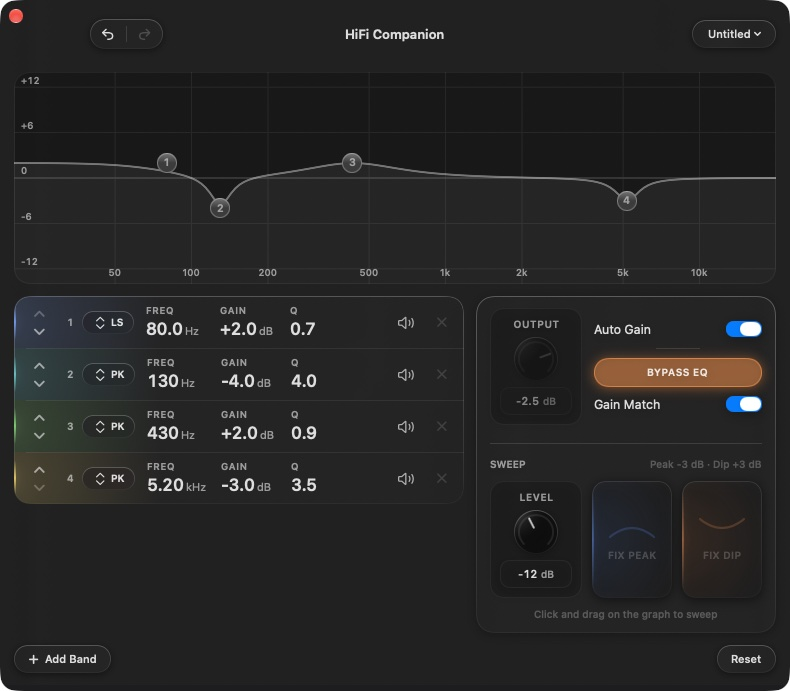
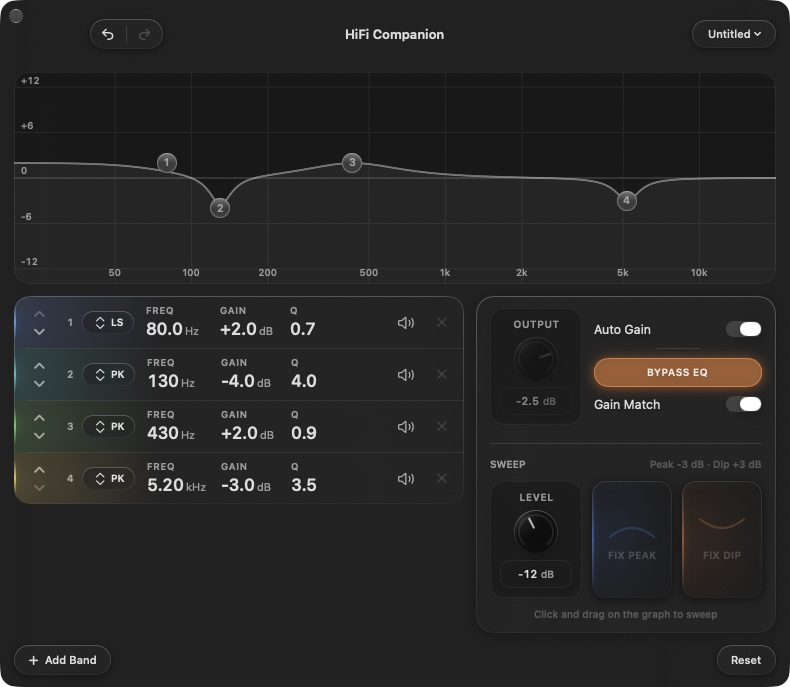
EQ: clipping pill with Fix, needle label gap, no strip under footer chips (build 28)

diff --git a/HiFiCompanion/PEQView.swift b/HiFiCompanion/PEQView.swift
@@ -61,16 +61,13 @@ struct PEQView: View {
                 .layoutPriority(0)
                 // Bypass A/B must not animate Canvas / materials (jank + WindowServer load).
                 .transaction { $0.animation = nil }
-                .overlay(alignment: .topLeading) {
+                // Bottom-trailing, just above the Hz labels: the sweep needle label lives along
+                // the top edge, so the two never overlap.
+                .overlay(alignment: .bottomTrailing) {
                     if model.peq.clippingWarning {
-                        Text("Output + peak boost exceeds 0 dB (clipping risk).")
-                            .foregroundStyle(.red)
-                            .font(.system(.caption))
-                            .padding(.horizontal, 8)
-                            .padding(.vertical, 4)
-                            .background(.ultraThinMaterial, in: RoundedRectangle(cornerRadius: 8, style: .continuous))
-                            .padding(8)
-                            .allowsHitTesting(false)
+                        clippingWarningPill
+                            .padding(.trailing, 8)
+                            .padding(.bottom, 22)
                     }
                 }
 
@@ -197,6 +194,51 @@ struct PEQView: View {
         }
         .onDisappear {
             model.mutePEQSweep()
+        }
+    }
+
+    /// Graph overlay (never an in-flow banner): how far output + peak boost goes over 0 dB,
+    /// with a one-click fix that lowers Output to the safe ceiling (Auto Gain stays as it is).
+    private var clippingWarningPill: some View {
+        let over = model.peq.outputGainDB + max(0, model.peq.peakBoostDB)
+        return HStack(spacing: 8) {
+            Image(systemName: "exclamationmark.triangle.fill")
+                .font(.system(size: 11, weight: .semibold))
+                .foregroundStyle(EQChrome.clipTint)
+            Text("Clipping risk")
+                .font(.system(.caption, weight: .semibold))
+            Text("\(EQFormat.gainDB(over, fractionDigits: 1)) over 0 dB")
+                .font(.system(.caption).monospacedDigit())
+                .foregroundStyle(.secondary)
+            Button("Fix") {
+                model.peq.setOutputGainToSafe()
+            }
+            .font(.system(.caption, weight: .semibold))
+            .buttonStyle(.plain)
+            .padding(.horizontal, 9)
+            .padding(.vertical, 3)
+            .background {
+                Capsule(style: .continuous)
+                    .fill(EQChrome.clipTint.opacity(0.28))
+                    .overlay {
+                        Capsule(style: .continuous)
+                            .strokeBorder(EQChrome.clipTint.opacity(0.6), lineWidth: 0.8)
+                    }
+            }
+            .disabled(!controlsEnabled)
+            .help("Lower Output so the boosted bands stay below 0 dB")
+        }
+        .padding(.leading, 10)
+        .padding(.trailing, 4)
+        .padding(.vertical, 4)
+        .background {
+            Capsule(style: .continuous)
+                .fill(.regularMaterial)
+                .overlay {
+                    Capsule(style: .continuous)
+                        .strokeBorder(EQChrome.clipTint.opacity(0.55), lineWidth: 0.8)
+                }
+                .shadow(color: EQChrome.shadowColor(for: colorScheme), radius: 4, y: 1.5)
         }
     }
 
@@ -729,7 +771,9 @@ struct PEQView: View {
                 }
                 .font(.system(.subheadline, weight: .medium))
                 .padding(.horizontal, 14)
-                .padding(.vertical, 7)
+                // Exact chip height = `footerHeight`: an intrinsic chip (~28) left H(N) 6 pt
+                // taller than the content, showing a dark strip under the chips.
+                .frame(height: PEQPanelMetrics.footerHeight)
                 .contentShape(Capsule())
             }
             .buttonStyle(.plain)
@@ -745,7 +789,7 @@ struct PEQView: View {
                 Text("Reset")
                     .font(.system(.subheadline, weight: .medium))
                     .padding(.horizontal, 14)
-                    .padding(.vertical, 7)
+                    .frame(height: PEQPanelMetrics.footerHeight)
                     .contentShape(Capsule())
             }
             .buttonStyle(.plain)
@@ -1256,6 +1300,7 @@ private enum EQChrome {
     static let bypassTint = Color(red: 0.98, green: 0.58, blue: 0.30)
     static let peakTint = Color(red: 0.35, green: 0.55, blue: 0.95)
     static let dipTint = Color(red: 0.95, green: 0.55, blue: 0.32)
+    static let clipTint = Color(red: 1.0, green: 0.36, blue: 0.32)
 
     static func shadowColor(for scheme: ColorScheme) -> Color {
         scheme == .dark ? Color.black.opacity(0.45) : Color.black.opacity(0.12)
@@ -1792,23 +1837,31 @@ private struct EQResponseGraph: View {
 
     private func drawNeedle(context: GraphicsContext, size: CGSize, hz: Double, active: Bool) {
         let x = xPosition(for: hz, width: size.width)
+        let text = Text(EQFormat.frequency(hz))
+            .font(.system(size: 11.5, weight: .semibold).monospacedDigit())
+            .foregroundStyle(active ? Color.orange : Color.primary.opacity(0.7))
+        let resolved = context.resolve(text)
+        let labelSize = resolved.measure(in: CGSize(width: 200, height: 40))
+        let labelCenter = CGPoint(x: min(max(x, labelSize.width / 2 + 6), size.width - labelSize.width / 2 - 6), y: 14)
+
+        // The line breaks around the label (it no longer runs through the text) and
+        // continues above it. Parked: thin dashed; while held: solid and slightly heavier.
         var line = Path()
-        line.move(to: CGPoint(x: x, y: 0))
+        let gap = labelSize.height / 2 + 3
+        if abs(labelCenter.x - x) < labelSize.width / 2 + 2 {
+            line.move(to: CGPoint(x: x, y: 0))
+            line.addLine(to: CGPoint(x: x, y: max(0, labelCenter.y - gap)))
+            line.move(to: CGPoint(x: x, y: labelCenter.y + gap))
+        } else {
+            line.move(to: CGPoint(x: x, y: 0))
+        }
         line.addLine(to: CGPoint(x: x, y: size.height))
         context.stroke(
             line,
             with: .color(active ? Color.orange : Color.primary.opacity(0.45)),
-            style: StrokeStyle(lineWidth: active ? 1.5 : 1, dash: active ? [] : [4, 3])
+            style: StrokeStyle(lineWidth: active ? 2 : 1, dash: active ? [] : [4, 3])
         )
-        let label = EQFormat.frequency(hz)
-        let text = Text(label)
-            .font(.system(size: 10, weight: .semibold))
-            .foregroundStyle(active ? Color.orange : Color.primary.opacity(0.7))
-        context.draw(
-            context.resolve(text),
-            at: CGPoint(x: min(max(x, 28), size.width - 28), y: 12),
-            anchor: .center
-        )
+        context.draw(resolved, at: labelCenter, anchor: .center)
     }
 
     private func xPosition(for hz: Double, width: CGFloat) -> CGFloat {

diff --git a/HiFiCompanionTests/PEQPanelMetricsTests.swift b/HiFiCompanionTests/PEQPanelMetricsTests.swift
@@ -115,7 +115,7 @@ final class PEQPanelMetricsTests: XCTestCase {
 
     func testChromeIsTight() {
         XCTAssertLessThan(PEQPanelMetrics.chromeHeight, 410)
-        XCTAssertEqual(PEQPanelMetrics.footerHeight, 34, accuracy: 0.1)
+        XCTAssertEqual(PEQPanelMetrics.footerHeight, 30, accuracy: 0.1)
         XCTAssertEqual(PEQPanelMetrics.footerClearance, 0, accuracy: 0.1)
         XCTAssertEqual(PEQPanelMetrics.footerChipInset, 12, accuracy: 0.1)
         XCTAssertEqual(PEQPanelMetrics.sideShadowBleed, 0, accuracy: 0.1)
@@ -123,7 +123,7 @@ final class PEQPanelMetricsTests: XCTestCase {
         let chipBlock = PEQPanelMetrics.footerChipInset
             + PEQPanelMetrics.footerHeight
             + PEQPanelMetrics.footerChipInset
-        XCTAssertEqual(chipBlock, 58, accuracy: 0.1)
+        XCTAssertEqual(chipBlock, 54, accuracy: 0.1)
     }
 
     /// Mert-approved compact footer (`eq-footer-compact-v4` / ver 19) — do not regress.

diff --git a/HiFiCompanion/PEQPanelController.swift b/HiFiCompanion/PEQPanelController.swift
@@ -51,9 +51,10 @@ enum PEQPanelMetrics {
     /// Equal air above and below Add Band / Reset (no separate footer bar).
     /// ≥ side shadow bloom (radius 10 + y 3) so the glass isn’t clipped.
     static let footerChipInset: CGFloat = 12
-    /// Chip ≈ label + vertical pad; pads live outside this value. Slightly
-    /// generous so ExactHeight never compresses the middle / glass.
-    static let footerHeight: CGFloat = 34
+    /// Exact Add Band / Reset chip height (`PEQView` frames the chips to it), the same as the
+    /// toolbar capsules. Pads live outside this value. Was a "generous" 34 for ~28 pt chips,
+    /// which left a 6 pt dark strip under the chips.
+    static let footerHeight: CGFloat = 30
     /// Shortest window matches the 4-band compact layout.
     static let minBandCountFloor = 4
 

diff --git a/HiFiCompanion/AuxWindows.swift b/HiFiCompanion/AuxWindows.swift
@@ -124,6 +124,13 @@ final class AuxWindows {
             try? await Task.sleep(nanoseconds: 400_000_000)
             results["eq-bypass"] = Self.capture(eq, to: "\(directory)/eq-bypass.png")
             model.peq.setBypass(wasBypassed)
+
+            // Clipping warning (Auto Gain off, Output pushed up) with a parked sweep needle.
+            model.peq.setAutoOutputGain(false)
+            model.peq.setOutputGainDB(1.5)
+            model.peq.setSweepNeedle(hz: 12_000)
+            try? await Task.sleep(nanoseconds: 400_000_000)
+            results["eq-clipping"] = Self.capture(eq, to: "\(directory)/eq-clipping.png")
         } else {
             results["eq"] = false
         }

diff --git a/docs/releases.md b/docs/releases.md
@@ -6,7 +6,7 @@ Version history, git tags, archived app builds, how to roll back, and how to bum
 
 | Release | Tag → commit | Launch stamp / build | Archived app | What it is |
 |---|---|---|---|---|
-| **0.3.1** (in development) | — | `eq-liquid-glass-v1` / 27 | — | EQ window in native Liquid Glass styling |
+| **0.3.1** (in development) | — | `eq-liquid-glass-v1` / 28 | — | EQ window in native Liquid Glass styling |
 | **0.3.0** (current release) | `v0.3.0` → `919e241` | `eq-footer-compact-v4` / 26 | `Archives/HiFiCompanion-0.3.0.app.zip` | Redesign R1–R5: follow macOS output, Parametric Equalizer switch, per-device curves, signal path, menu panel, Settings; code-review EQ fixes. Includes the never-tagged 0.2.1 work |
 | **0.2** | `v0.2` → `a49ad4b` | `eq-footer-compact-v4` / 19 | `Archives/HiFiCompanion-0.2.app.zip` | Approved EQ: compact footer, laptop fit, side-panel UX |
 | **0.1** | `v0.1` → `fd09485` | `window-chrome-v7` / 7 | `Archives/HiFiCompanion-0.1.app.zip` | Last working EQ **before** the side-panel UX redesign |
@@ -15,9 +15,9 @@ All tags are annotated and reachable from `main`. **Do not delete them** unless 
 
 Note: the tagged builds still report `CFBundleShortVersionString` **0.1.0**. The marketing version became `0.2.0` when versioning moved to `project.yml` (2026-10-28, after the tag); the build number (19) is unchanged.
 
-### 0.3.1 — in development (build 27)
+### 0.3.1 — in development (build 28)
 
-- **EQ window, native Liquid Glass** (agreed from concept mockups with Mert, 2026-10-31): 790 pt wide; Undo / Redo in one glass capsule; graph with dB / Hz axis labels and glass handles, all gray while Bypass EQ is on; bands in one grouped container, lit from the leading edge in the band color (stronger when selected), FREQ / GAIN / Q as large values under small caps labels, larger reorder / mute / remove controls; ↑ / ↓ reorder slides the rows; side glass: OUTPUT stack beside Auto Gain / Bypass EQ (orange when on) / Gain Match, SWEEP section with LEVEL and FIX PEAK / FIX DIP lit from the edge.
+- **EQ window, native Liquid Glass** (agreed from concept mockups with Mert, 2026-10-31): 790 pt wide; Undo / Redo in one glass capsule; graph with dB / Hz axis labels and glass handles, all gray while Bypass EQ is on; bands in one grouped container, lit from the leading edge in the band color (stronger when selected), FREQ / GAIN / Q as large values under small caps labels, larger reorder / mute / remove controls; ↑ / ↓ reorder slides the rows; side glass: OUTPUT stack beside Auto Gain / Bypass EQ (orange when on) / Gain Match, SWEEP section with LEVEL and FIX PEAK / FIX DIP lit from the edge; clipping warning as a glass pill with a Fix button; sweep needle line breaks around its (larger) label and is 2 pt while held; the dark strip under Add Band / Reset is gone (chips framed to the 30 pt the height math expects).
 
 ### 0.3.0 — 2026-10-31
 

diff --git a/docs/eq-window.md b/docs/eq-window.md
@@ -15,7 +15,7 @@ One window, **no tabs**. Top to bottom:
 3. **Middle** — band list on the left, **side glass** on the right (300 pt).
 4. **Footer chips** — **Add Band** (left, with a plus) and **Reset** (right) on the window background, the same glass capsule as the toolbar controls.
 
-The menu bar panel and Settings own the equalizer switch, output, Apple Music Mode and appearance. No status or helper lines in the EQ chrome (bit-perfect, peak boost, needle hints); the clipping warning is a **graph overlay**, never an in-flow banner (banners grew the height and pushed FIX PEAK / FIX DIP under the footer).
+The menu bar panel and Settings own the equalizer switch, output, Apple Music Mode and appearance. No status or helper lines in the EQ chrome (bit-perfect, peak boost, needle hints); the clipping warning is a **graph overlay**, never an in-flow banner (banners grew the height and pushed FIX PEAK / FIX DIP under the footer): a glass pill at the graph's bottom-trailing corner, just above the Hz labels (the needle label owns the top edge) — warning icon, "Clipping risk", how far output + peak boost goes over 0 dB, and a **Fix** button that lowers Output to the safe ceiling (`setOutputGainToSafe`; Auto Gain is left as it is).
 
 ## Bands
 
@@ -31,7 +31,7 @@ The menu bar panel and Settings own the equalizer switch, output, Apple Music Mo
 
 ## Sweep (always on the graph)
 
-- Press-drag plays the tone; release mutes; the needle parks with a small frequency label. Only one needle.
+- Press-drag plays the tone; release mutes; the needle parks with a small frequency label. Only one needle. The line breaks around the label and continues above it; while held it is solid orange and 2 pt, parked it is a thin dashed line.
 - **FIX PEAK** = you heard a peak → add a **cut** (−3 dB). **FIX DIP** = you heard a dip → add a **boost** (+3 dB). Q **3**. The side panel shows `Peak -3 dB · Dip +3 dB`.
 - **LEVEL** (sweep tone level): default **−12 dB**, range **−20…0 dB**.
 - Audio behavior (wake engine, mixing before PEQ): [audio-path.md](audio-path.md#sweep).
@@ -115,7 +115,7 @@ Graph:
 - One numbered **glass handle** per band — exactly 1…N, no duplicates, matching the list order: a faint band-color tint, a thin band-color rim, a top highlight, the number in the primary text color.
 - Soft multi-color wash under the curve following band colors. Visible but soft — not neon.
 - **Bypass EQ on: the whole graph turns gray** (curve, wash, handles); handles stay editable.
-- One parked sweep needle with a small frequency label.
+- One parked sweep needle with a small frequency label (11.5 pt; the line never runs through the text).
 
 Still true from v0.2: F / G / Q values agree between the graph and the rows; no extra floating badges, duplicate needles, or random glyphs.
 

diff --git a/AGENTS.md b/AGENTS.md
@@ -10,7 +10,7 @@ This clone plus GitHub is the whole brief. There is no chat transcript or extern
 |---|---|
 | **Live line** | `main` — branch from it, PR back to it |
 | **Latest release** | **0.3.0 (26)**, tag `v0.3.0` → `919e241` ([releases](docs/releases.md)) |
-| **In development** | **0.3.1 (27)** — EQ window Liquid Glass styling |
+| **In development** | **0.3.1 (28)** — EQ window Liquid Glass styling |
 | **Launch stamp** | `eq-liquid-glass-v1` |
 | **Installed app** | `~/Applications/HiFiCompanion.app` |
 | **Archived builds** | `~/Library/Application Support/HiFiCompanion/Archives/HiFiCompanion-0.3.0.app.zip`, `…-0.2.app.zip`, `…-0.1.app.zip` (zipped so Spotlight shows one app) |
@@ -42,7 +42,7 @@ ditto "build.noindex/Build/Products/Release/HiFiCompanion.app" ~/Applications/Hi
 open ~/Applications/HiFiCompanion.app
 ```
 
-- Always install to **`~/Applications/HiFiCompanion.app`** so System Audio Recording permission matches the binary. Launch prints `HiFiCompanion launch stamp=eq-liquid-glass-v1 ver=<build> exe=…` (`ver` = `CURRENT_PROJECT_VERSION`, currently 27). A missing or old stamp means a stale copy is running.
+- Always install to **`~/Applications/HiFiCompanion.app`** so System Audio Recording permission matches the binary. Launch prints `HiFiCompanion launch stamp=eq-liquid-glass-v1 ver=<build> exe=…` (`ver` = `CURRENT_PROJECT_VERSION`, currently 28). A missing or old stamp means a stale copy is running.
 - `project.yml` is the source of truth; never hand-edit `project.pbxproj`. Versions: `MARKETING_VERSION` / `CURRENT_PROJECT_VERSION` in `project.yml` ([bumping](docs/releases.md#bumping-the-version)).
 - **Run the unit tests locally before every PR** and state the result in the PR. GitHub Actions (`.github/workflows/tests.yml`) is manual-only — do not wait on it.
 - Tests are hosted in the app (`@testable import`); keep the test target's `TEST_HOST` / dependency in `project.yml`.

diff --git a/docs/pitfalls.md b/docs/pitfalls.md
@@ -21,7 +21,7 @@ Each item is a regression we already paid for. Symptom → cause → **the fix w
 **Fix we keep:**
 
 - Width **790** (900 before the glass styling), height exact **H(N)** with `min == max`. `ExactHeightEQPanel` clamps `setFrame` / `setContentSize`; **no-op when already at the locked size**.
-- Middle hugs `max(list, measured side)`; `sideShadowBleed == 0`; `footerClearance == 0`; equal `footerChipInset` (12) above and below the chips. **No footer strip.**
+- Middle hugs `max(list, measured side)`; `sideShadowBleed == 0`; `footerClearance == 0`; equal `footerChipInset` (12) above and below the chips. **No footer strip.** The chips are framed to exactly `footerHeight` (30): with intrinsic ~28 pt chips under a 34 pt budget, H(N) was 6 pt taller than the content and the bare window showed as a dark strip under the chips (fixed 2026-10-31).
 - **Never** `.clipped()` / `.compositingGroup()` / fixed-height shell on the middle — the glass shadow paints into the chip inset. [media/eq-v0.2-dark.jpg](media/eq-v0.2-dark.jpg), [media/eq-v0.2-footer-corner.jpg](media/eq-v0.2-footer-corner.jpg).
 - On short screens: clamp to `visibleFrame − 16`; shrink graph (min 140) first, then middle; never clip the side glass to make it fit.
 - Re-pin top-left after size changes (`origin.y = oldMaxY - newHeight`).

diff --git a/docs/architecture.md b/docs/architecture.md
@@ -119,7 +119,7 @@ Pass these to the app binary (e.g. `~/Applications/HiFiCompanion.app/Contents/Ma
 | `--smoke-sweep` | Sweep wake engine: idle → on during gesture → off after |
 | `--smoke-test-eq-ui` | PT on → open EQ → set 1 kHz gain → verify live state |
 | `--hold-passthrough-seconds <n>` | Enable PT and print meter lines for `n` seconds |
-| `--ui-screenshots <dir>` | Capture the menu panel, each Settings tab, the welcome window and the EQ window (4 demo bands, then Bypass EQ on) as PNGs (`UI_SHOT:` / `EQ_SIZE:` lines). Services are not started, so it never touches the output or the tap; the EQ document uses a throwaway defaults suite, so the user's curves are untouched. Safe while Mert listens |
+| `--ui-screenshots <dir>` | Capture the menu panel, each Settings tab, the welcome window and the EQ window (4 demo bands; then Bypass EQ on; then the clipping warning with a parked needle) as PNGs (`UI_SHOT:` / `EQ_SIZE:` lines). Services are not started, so it never touches the output or the tap; the EQ document uses a throwaway defaults suite, so the user's curves are untouched. Safe while Mert listens |
 
 Automation that opens the app runs a second `AppModel` against the real DAC. Do not run it while Mert is listening, and never start Music / YouTube for it.
 
